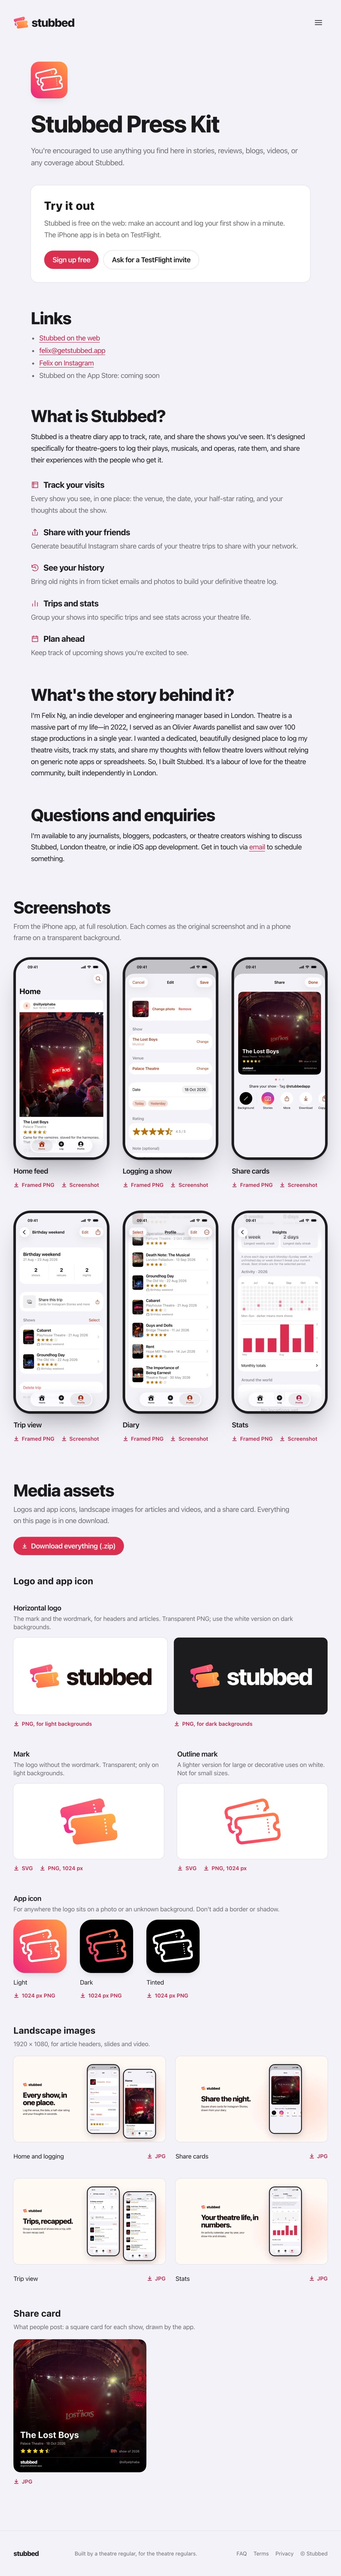
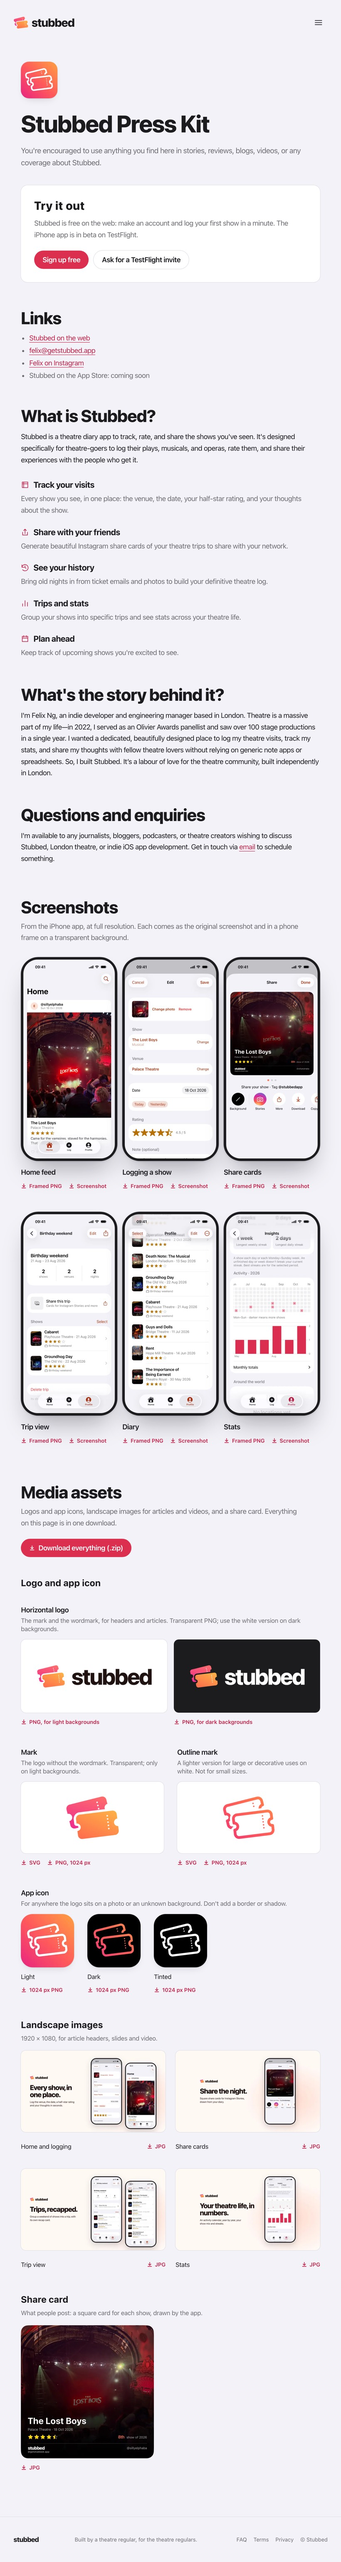
Press kit: one 720px column for everything, like the reference
Measured on getpersonalbest.com/press: content is 720px wide, with the
screenshots in three 232px columns inside it.

diff --git a/apps/web/src/components/press/PressMedia.tsx b/apps/web/src/components/press/PressMedia.tsx
@@ -67,11 +67,11 @@ export function PressScreenshots() {
     <section id="screenshots" aria-labelledby="screenshots-heading" className="scroll-mt-8">
       <h2 id="screenshots-heading" className={pressHeading}>Screenshots</h2>
       <p className="mt-3 max-w-2xl leading-relaxed text-label-secondary">From the iPhone app, at full resolution. Each comes as the original screenshot and in a phone frame on a transparent background.</p>
-      <ul className="mt-8 grid grid-cols-2 gap-x-5 gap-y-10 sm:grid-cols-3 sm:gap-x-8">
+      <ul className="mt-8 grid grid-cols-2 gap-x-3 gap-y-10 sm:grid-cols-3">
         {screens.map((screen) => (
           <li key={screen.name} className="min-w-0">
             <div className="rounded-[18%/8.3%] bg-[#1c1c1e] p-[2.6%] shadow-lg ring-1 ring-black/10">
-              <Image src={screen.raw} alt={`Stubbed on iPhone: ${screen.name.toLowerCase()}`} width={SHOT.width} height={SHOT.height} sizes="(min-width: 640px) 300px, 45vw" className="h-auto w-full rounded-[15.5%/7.1%] bg-background" />
+              <Image src={screen.raw} alt={`Stubbed on iPhone: ${screen.name.toLowerCase()}`} width={SHOT.width} height={SHOT.height} sizes="(min-width: 640px) 232px, 45vw" className="h-auto w-full rounded-[15.5%/7.1%] bg-background" />
             </div>
             <p className="mt-4 text-headline text-label">{screen.name}</p>
             <div className="flex flex-wrap gap-x-4">
@@ -108,13 +108,13 @@ export function PressMedia() {
           <div className="mt-4 grid gap-4 sm:grid-cols-2">
             <div>
               <div className="flex aspect-[2/1] items-center justify-center rounded-xl bg-surface p-8 ring-1 ring-separator">
-                <Image src="/press/stubbed-logo.png" alt="The Stubbed logo: the ticket mark and the stubbed wordmark" width={2141} height={500} sizes="(min-width: 640px) 400px, 80vw" className="h-auto w-full max-w-sm" />
+                <Image src="/press/stubbed-logo.png" alt="The Stubbed logo: the ticket mark and the stubbed wordmark" width={2141} height={500} sizes="(min-width: 640px) 300px, 80vw" className="h-auto w-full max-w-sm" />
               </div>
               <Download href="/press/stubbed-logo.png">PNG, for light backgrounds</Download>
             </div>
             <div>
               <div className="flex aspect-[2/1] items-center justify-center rounded-xl bg-[#1c1c1e] p-8">
-                <Image src="/press/stubbed-logo-white.png" alt="The Stubbed logo with a white wordmark, on a dark background" width={2141} height={500} sizes="(min-width: 640px) 400px, 80vw" className="h-auto w-full max-w-sm" />
+                <Image src="/press/stubbed-logo-white.png" alt="The Stubbed logo with a white wordmark, on a dark background" width={2141} height={500} sizes="(min-width: 640px) 300px, 80vw" className="h-auto w-full max-w-sm" />
               </div>
               <Download href="/press/stubbed-logo-white.png">PNG, for dark backgrounds</Download>
             </div>
@@ -158,7 +158,7 @@ export function PressMedia() {
         <ul className="mt-5 grid gap-x-6 gap-y-8 sm:grid-cols-2">
           {landscapes.map((image) => (
             <li key={image.name} className="min-w-0">
-              <Image src={image.src} alt={`Stubbed: ${image.name.toLowerCase()}, landscape image`} width={1920} height={1080} sizes="(min-width: 640px) 480px, 100vw" className="h-auto w-full rounded-xl ring-1 ring-separator" />
+              <Image src={image.src} alt={`Stubbed: ${image.name.toLowerCase()}, landscape image`} width={1920} height={1080} sizes="(min-width: 640px) 354px, 100vw" className="h-auto w-full rounded-xl ring-1 ring-separator" />
               <div className="mt-3 flex flex-wrap items-center justify-between gap-x-4">
                 <p className="text-subheadline text-label">{image.name}</p>
                 <Download href={image.src}>JPG</Download>

diff --git a/apps/web/src/app/press/page.tsx b/apps/web/src/app/press/page.tsx
@@ -16,7 +16,7 @@ export const metadata: Metadata = {
 export const viewport: Viewport = { themeColor: "#fff9f6" };
 
 // Laid out like getpersonalbest.com/press (the owner's reference): one
-// reading column, then the screenshots and media at full width.
+// 720px column for everything, screenshots and media included.
 const features = [
   ["Track your visits", "Every show you see, in one place: the venue, the date, your half-star rating, and your thoughts about the show.", "M4 4h16v16H4zM8 4v16M4 9h16"],
   ["Share with your friends", "Generate beautiful Instagram share cards of your theatre trips to share with your network.", "M12 16V3m-4 4 4-4 4 4M5 12v8h14v-8"],
@@ -40,7 +40,7 @@ export default function PressPage() {
       </header>
       <main id="press-content">
         <Container className="pb-16 sm:pb-24">
-          <div className="mx-auto max-w-2xl space-y-14 pt-6 sm:space-y-16 sm:pt-10">
+          <div className="mx-auto max-w-[720px] space-y-14 pt-6 sm:space-y-16 sm:pt-10">
             <div>
               <Image src="/press/app-icon.png" alt="The Stubbed app icon" width={1024} height={1024} sizes="88px" preload className="mb-8 h-20 w-20 rounded-[22%] shadow-sm ring-1 ring-black/5 sm:h-[88px] sm:w-[88px]" />
               <h1 className="font-display text-[clamp(44px,7vw,76px)] leading-[1.02] font-extrabold tracking-[-0.03em] text-balance text-label">Stubbed Press Kit</h1>
@@ -95,7 +95,7 @@ export default function PressPage() {
             </section>
           </div>
 
-          <div className="mx-auto mt-16 max-w-5xl space-y-16 sm:mt-20 sm:space-y-20">
+          <div className="mx-auto mt-16 max-w-[720px] space-y-16 sm:mt-20 sm:space-y-20">
             <PressScreenshots />
             <PressMedia />
           </div>
